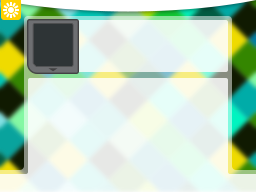
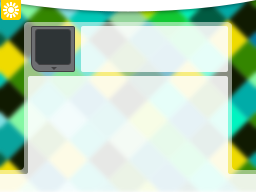
finally fixes YSMenu

Changed region(s): [[0.0938, 0.0625, 0.9062, 0.4062]]

diff --git a/README.md b/README.md
@@ -32,8 +32,34 @@ Graphics made with [GIMP](https://www.gimp.org/) and [Inkscape](https://www.inks
 
 # How to make your own graphics
 
+## For SuperCards and Wood
+
 Note down the dimensions of the graphic, you want to design. Design it with GIMP or Inkscape. Export it to PNG. Open it with GIMP and export it to a 16 Bit Windows-Bitmap with:
 
-***File** > **Export** > **Windows-Bitmap** > **Extended Settings** > **16 Bit** > **X1 R5 G5 B5***
+***File** > **Export** > **Windows-Bitmap** > **Advanced Options** > **16 Bit** > **X1 R5 G5 B5***
 
 This leads to far better quality then the 16 bit conversions of the various skin editors.
+
+## For YSMenu
+
+***File** > **Export** > **Windows-Bitmap** > **Advanced Options** > **24 Bit** > **R8 G8 B8** > **Compatibility Options** > **Don't write Color Space Information***
+
+The color values in YSMenu are a little bit strange. The Format is
+
+|-|B|G|R|
+|-|-|-|-|
+|1 Bit|5 Bit|5 Bit|5 Bit|
+
+Examples:
+
+|Color|-|B|G|R|
+|-|-|-|-|-|
+|White|1|11111|11111|11111|
+|Black|1|00000|00000|00000|
+|Blue|1|11111|00000|00000|
+|Green|1|00000|11111|00000|
+|Red|1|00000|00000|11111|
+
+Finally convert it to a Hex number with 4 positions.
+
+
